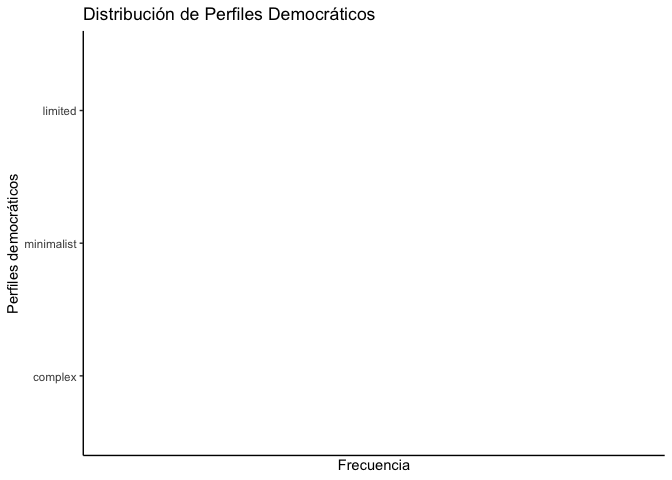
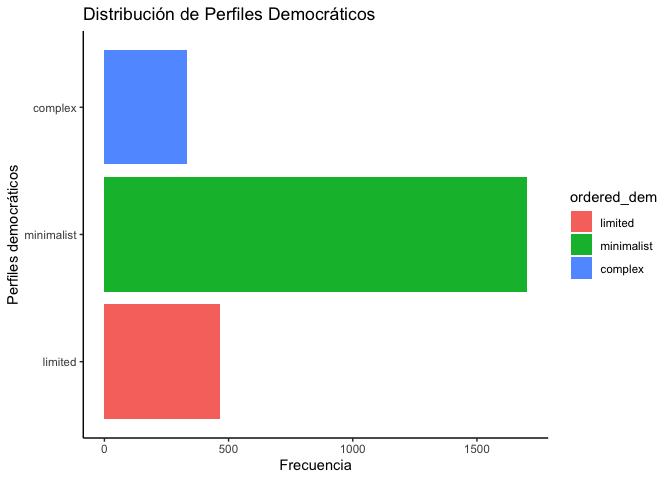
update geom_bar() ordered

diff --git a/ayu02.md b/ayu02.md
@@ -1352,24 +1352,23 @@ dem_16 %>%
 # cambiando orden de los grupos
 # -----------------------------------------------
 
+ordered_dem <- factor(dem_16$dem_group,
+                      level = c('limited', 'minimalist', 'complex'))
+
+
 dem_16 %>%
   ggplot(
     aes(
-      x= dem_group,
-      fill= dem_group)
-    ) +
-  scale_fill_brewer(palette = "Set3") +
+      x= ordered_dem,
+      fill= ordered_dem
+      )) +
+  geom_bar() +
   labs(
     x= "Perfiles democráticos",
     y= "Frecuencia",
     title = "Distribución de Perfiles Democráticos") +
   coord_flip() +
-  scale_x_discrete(
-    limits = c(
-      'complex',
-      'minimalist',
-      'limited')) +
-  theme_classic() 
+  theme_classic()
 ```
 
 ![](ayu02_files/figure-gfm/unnamed-chunk-20-3.png)<!-- -->
